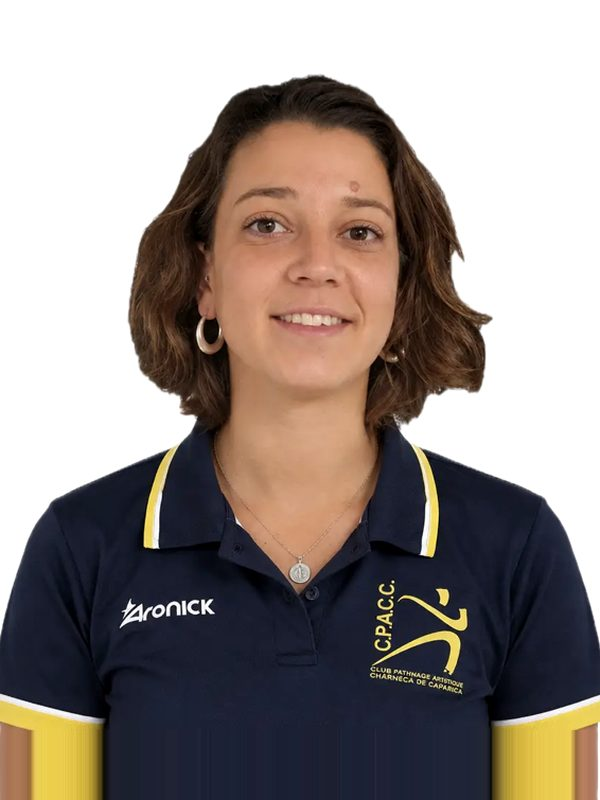
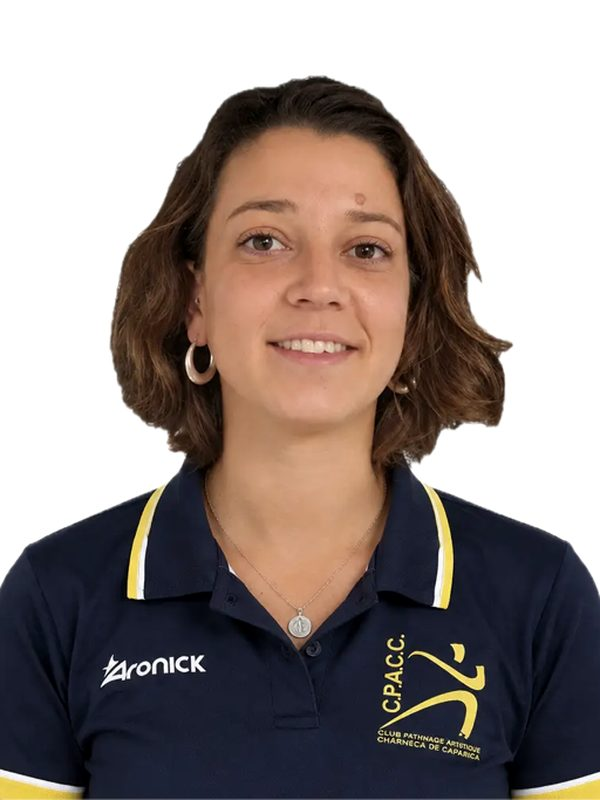
Refaz o retrato da Inês sem os braços inventados
Para escapar aos botões da aplicação onde a foto foi gerada, a versão
anterior prolongava os píxeis da última linha para baixo. Ficavam duas
barras a fingir de mangas. Agora o recorte fica dentro do que existe na
fotografia e a cabeça ocupa um pouco mais da altura - o quarto valor da
tabela ROSTOS serve para isso.

diff --git a/clube.html b/clube.html
@@ -237,7 +237,7 @@
         <p class="coach__bio">Grau II de Treinadora de Patinagem Artística e Curso de Grau I da World Skate. Coreógrafa internacional. Treinadora desde 2014, no Grupo Desportivo e Recreativo os Lobinhos.</p>
       </article>
       <article class="coach" data-reveal>
-        <div class="coach__photo"><img src="assets/img/equipa/ines-pelica.jpg?v=2" alt="Inês Pelica" width="600" height="800" loading="lazy" decoding="async"></div>
+        <div class="coach__photo"><img src="assets/img/equipa/ines-pelica.jpg?v=3" alt="Inês Pelica" width="600" height="800" loading="lazy" decoding="async"></div>
         <p class="coach__role">Treinadora</p>
         <h3 class="coach__name">Inês Pelica</h3>
         <p class="coach__bio">Grau I de Treinadora de Patinagem Artística.</p>

diff --git a/index.html b/index.html
@@ -457,7 +457,7 @@
       </article>
 
       <article class="coach" data-reveal>
-        <div class="coach__photo"><img src="assets/img/equipa/ines-pelica.jpg?v=2" alt="Inês Pelica" width="600" height="800" loading="lazy" decoding="async"></div>
+        <div class="coach__photo"><img src="assets/img/equipa/ines-pelica.jpg?v=3" alt="Inês Pelica" width="600" height="800" loading="lazy" decoding="async"></div>
         <p class="coach__role">Treinadora</p>
         <h3 class="coach__name">Inês Pelica</h3>
         <p class="coach__bio">Grau I de Treinadora de Patinagem Artística.</p>

diff --git a/tools/preparar-fotos.py b/tools/preparar-fotos.py
@@ -34,10 +34,14 @@ FOLGA_TOPO = 0.09                   # espaço acima da cabeça, em % da altura
 #
 # Cada entrada é (topo_da_cabeca_y, queixo_y, centro_do_rosto_x) no original.
 # O recorte é calculado a partir daí para a cabeça ocupar sempre ALTURA_CABECA
-# da altura final — é isso que faz os retratos parecerem da mesma sessão.
+# da altura final - é isso que faz os retratos parecerem da mesma sessão.
+#
+# Um quarto valor opcional substitui ALTURA_CABECA só nesse retrato. Serve para
+# quando o original não dá altura suficiente: mais vale a cabeça ficar um pouco
+# maior do que inventar tronco que não está na fotografia.
 ROSTOS = {
     "beatriz-maia":      (104,  380,  288),
-    "ines-pelica":       (88,   390,  300),
+    "ines-pelica":       (88,   390,  300, 0.442),
     "silvia-almeida":    (45,   240,  222),
     "francisco-quintela": (615, 1680, 3150),
     "catarina-branco":   (31,   500,  969),
@@ -127,9 +131,11 @@ def preparar(origem, nome):
     centro_x = (esq + dir_) // 2
 
     if nome in ROSTOS:
-        cabeca_topo, queixo, centro_x = ROSTOS[nome]
+        medida = ROSTOS[nome]
+        cabeca_topo, queixo, centro_x = medida[:3]
+        proporcao = medida[3] if len(medida) > 3 else ALTURA_CABECA
         topo = cabeca_topo
-        altura_corte = int((queixo - cabeca_topo) / ALTURA_CABECA)
+        altura_corte = int((queixo - cabeca_topo) / proporcao)
     else:
         # Sem medição à mão, aproximamos pelos limites detetados.
         altura_corte = int((base - topo) * 1.15)
